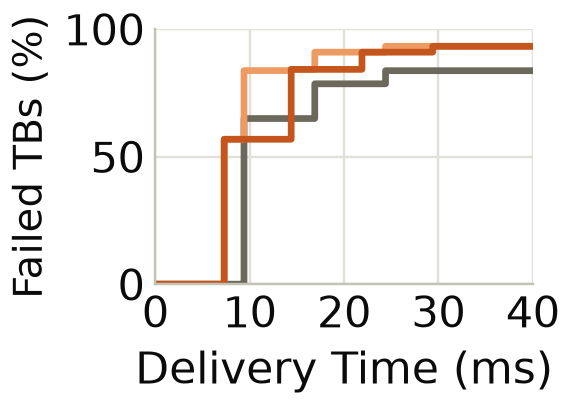
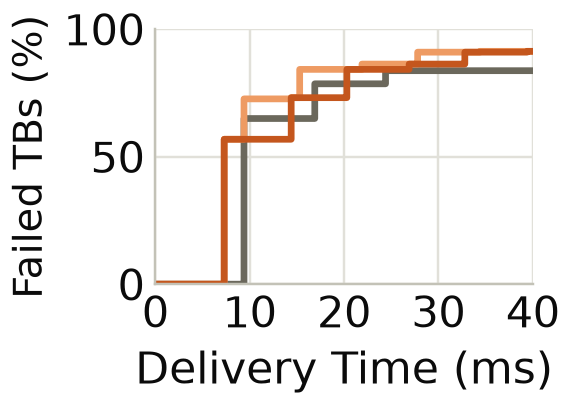
Retransmission rounds in the latency timeline: the NRx result of a retransmission comes one recovery path after the L1 result; Full Wait waits at every transmission, Latency-Neutral selects by failed code blocks at the first transmission and waits at every retransmission; delay as the share of faile

Changed region(s): [[0.4161, 0.0885, 0.951, 0.2654]]

diff --git a/src/analysis/paper_numbers.py b/src/analysis/paper_numbers.py
@@ -9,10 +9,11 @@ scripts/update_numbers.sh; a rerun must reproduce the file byte for byte.
 Macros (value, source):
   \\RetxCutFullWait     retransmissions per 100 TBs, conventional receiver only / Reverb waiting for every recovery,
                        macro cell, the 20,480 TBs of n3_uma_v3_cb + n3_uma_v3_more (results/n3_uma_v3_all.json)
-  \\RetxCutNoDelay      the same with the latency-neutral rule (wait only when at most 5 of 10 code blocks failed),
-                       from the latency simulation (src/sim/harq_latency.py, DDDSU, L1 1.4 ms, recovery path measured,
-                       recovery deadline 11.0 ms, lead 4.0 ms) on the same traces; checked: no added p99 delay for
-                       the TBs recovery does not decode
+  \\RetxCutNoDelay      the same with the latency-neutral rule (at the first transmission wait only when at most 5 of
+                       10 code blocks failed, wait at every retransmission), from the latency simulation
+                       (src/sim/harq_latency.py, DDDSU, L1 1.4 ms, recovery path measured, recovery deadline 11.0 ms,
+                       lead 4.0 ms) on the same traces; checked: within every delay the share of the failed TBs
+                       delivered is at least that of the conventional receiver (a lost TB is never delivered)
   \\LostCutFullWait     TBs never received after four transmissions, conventional / Reverb waiting for every recovery
   \\ThroughputGainLA    goodput under outer-loop link adaptation (target 10%), Reverb / conventional, mean over the
                        SNR points 6-16 dB, macro cell (results/n6_uma_v3_olla.json)
@@ -26,7 +27,13 @@ Setup macros (text, Evaluation Setup): \\SetupLOneMs, \\SetupRecoveryRunMs, \\Se
   \\SetupRecoveryRunMs is the 99th percentile and \\SetupRecoveryPathMs the median of the recovery path measured in the slot
   runtime (src/analysis/recovery_path.py); \\SetupRecoveryBoundMs, \\SetupBoundLowMs and \\SetupBoundHighMs are settings of
   the real-time runs.  NeutralLaterPct / FullWaitLaterPct: failed TBs delivered later than without recovery (Latency-Neutral,
-  Full Wait), NeutralEarlierPct: delivered earlier, WaitAddedDelayMs: the largest added delay (latency simulation)
+  Full Wait), NeutralEarlierPct: delivered earlier, WaitAddedDelayMs: the delay one wait adds to the next retransmission
+  (the same at every transmission, checked), FullWaitMaxAddedMs: the largest added delay of a TB under Full Wait,
+  FullWaitBehindMaxPp / FullWaitAheadFromMs: the largest shortfall of the delivered share of Full Wait against the
+  conventional receiver and the delay from which Full Wait delivers more; MotPNinetyNine*: 99th-percentile delivery
+  time of the failed TBs the first recovery does not decode, among those delivered with and without waiting;
+  MotLaterRec* / MotLaterNext*: after the L1 fails a retransmission, the share of these TBs that the NRx of the combined
+  buffer decodes / that the next retransmission decodes (range over the retransmissions, conventional order of events)
 """
 import glob
 import json
@@ -36,7 +43,7 @@ import sys
 import numpy as np
 
 sys.path.insert(0, "src/sim")
-from harq_latency import simulate  # noqa: E402
+from harq_latency import simulate, uplink_times  # noqa: E402
 
 OUT = os.environ.get("PAPER_NUMBERS_OUT", "results/paper")   # another folder to compare without replacing
 MACRO_SETS = ["n3_uma_v3_cb", "n3_uma_v3_more"]
@@ -130,9 +137,11 @@ def motivation(lat):
     v["MotRecoveryResultMs"] = (Timing.l1 + Timing.run, 1)
     v["MotFirstRetxMs"] = (lat["first_retx_ms"], 1)
     v["MotWaitDelayMs"] = (lat["wait_delay_ms"], 1)
-    v["MotPNinetyNineNoWait"] = (lat["harq_only"]["p99_unrecovered_ms"], 1)
-    v["MotPNinetyNineWait"] = (lat["wait"]["p99_unrecovered_ms"], 1)
+    v["MotPNinetyNineNoWait"] = (lat["wait"]["p99_paired_conventional_ms"], 1)
+    v["MotPNinetyNineWait"] = (lat["wait"]["p99_paired_ms"], 1)
     v["MotRetxWait"] = (lat["wait"]["retx_per_100"], 1)
+    v["MotLaterRecLow"] = (min(lat["later_recovery_pct"]), 0); v["MotLaterRecHigh"] = (max(lat["later_recovery_pct"]), 0)
+    v["MotLaterNextLow"] = (min(lat["later_next_retx_pct"]), 0); v["MotLaterNextHigh"] = (max(lat["later_next_retx_pct"]), 0)
     rows = {}
     for line in open("results/n16_summary.txt"):
         f = line.split()
@@ -172,30 +181,57 @@ def load_traces(sets):
     return conv, rec, steps, conv_steps, (cbfail >= 0) & (cbfail <= 5)
 
 
+def delivered_share(done, fail, at):
+    """Share (%) of the failed TBs delivered within each delay of at; a TB lost after the last transmission is never
+    delivered.  The shares change only at delivery times, so evaluating them there compares two policies exactly."""
+    d = np.sort(done[fail])
+    return 100.0 * np.searchsorted(d, at, side="right") / fail.sum()
+
+
 def latency_policies():
     conv, rec, steps, conv_steps, cand = load_traces(MACRO_SETS)
-    out = {}
-    dones = {}
-    for pol in ("harq_only", "wait", "select_cb5"):
-        done, tx = simulate(conv, rec, conv_steps if pol == "harq_only" else steps, cand, pol, "DDDSU", Timing)
-        unrec = ~conv & ~(rec & (Timing.l1 + Timing.run <= Timing.deadline)) & np.isfinite(done)
-        dones[pol] = (done, unrec)
-        out[pol] = {"retx_per_100": float(100.0 * (tx - 1).sum() / len(tx)),
-                    "p99_unrecovered_ms": float(np.percentile(done[unrec], 99)),
-                    "tbs": int(len(tx))}
-    (d0, u0), (d1, u1) = dones["harq_only"], dones["wait"]
-    d_base = dones["harq_only"][0]
     fail = ~conv
+    first_rec = rec & (Timing.l1 + Timing.run <= Timing.deadline)
+    out, dones = {}, {}
+    for pol in ("harq_only", "wait", "select_cb5"):
+        done, tx = simulate(conv, rec, conv_steps if pol == "harq_only" else steps, cand, pol, "DDDSU", Timing, l1_steps=conv_steps)
+        dones[pol] = done
+        out[pol] = {"retx_per_100": float(100.0 * (tx - 1).sum() / len(tx)),
+                    "lost_pct": float(100.0 * (~np.isfinite(done)).mean()), "tbs": int(len(tx))}
+    d0 = dones["harq_only"]
     for pol in ("select_cb5", "wait"):
-        d = dones[pol][0]
-        base = np.where(np.isfinite(d_base), d_base, np.inf)
-        new = np.where(np.isfinite(d), d, np.inf)
-        later = fail & np.isfinite(base) & (new > base + 1e-9)
+        d = dones[pol]
+        later = fail & np.isfinite(d0) & (d > d0 + 1e-9)
         out[pol]["later_pct_of_failed"] = float(100.0 * later.sum() / fail.sum())
-        out[pol]["earlier_pct_of_failed"] = float(100.0 * (fail & (new < base - 1e-9)).sum() / fail.sum())
-        out[pol]["added_delay_ms_max"] = float((new[later] - base[later]).max()) if later.any() else 0.0
-    out["first_retx_ms"] = float(d0[u0].min())                      # the first retransmission is decoded
-    out["wait_delay_ms"] = float(d1[u1].min() - d0[u0].min())      # waiting moves it by this much
+        out[pol]["earlier_pct_of_failed"] = float(100.0 * (fail & (d < d0 - 1e-9)).sum() / fail.sum())
+        out[pol]["added_delay_ms_max"] = float((d[later] - d0[later]).max()) if later.any() else 0.0
+        at = np.unique(np.concatenate([[0.0], d0[fail & np.isfinite(d0)], d[fail & np.isfinite(d)]]))
+        diff = delivered_share(d, fail, at) - delivered_share(d0, fail, at)
+        out[pol]["share_min_diff_pp"] = float(diff.min())
+        behind = np.flatnonzero(diff < -1e-9)
+        if len(behind):
+            out[pol]["behind_from_ms"] = float(at[behind[0]])
+            out[pol]["ahead_from_ms"] = float(at[behind[-1] + 1])   # from here on the share is at least the conventional one
+            assert (diff[behind[-1] + 1:] >= -1e-9).all()
+        pair = fail & ~first_rec & np.isfinite(d0) & np.isfinite(d)   # the same TBs under both policies
+        out[pol]["p99_paired_ms"] = float(np.percentile(d[pair], 99))
+        out[pol]["p99_paired_conventional_ms"] = float(np.percentile(d0[pair], 99))
+    # after the L1 fails retransmission k (and every transmission before it): the share the NRx of the combined buffer
+    # decodes, and the share the next retransmission decodes with the L1 alone
+    alive, later_rec, later_next = fail.copy(), [], []
+    for k in range(1, len(steps)):
+        alive = alive & ~conv_steps[k]
+        later_rec.append(float(100.0 * (steps[k] & ~conv_steps[k])[alive].mean()))
+        if k + 1 < len(steps):
+            later_next.append(float(100.0 * conv_steps[k + 1][alive].mean()))
+    out["later_recovery_pct"], out["later_next_retx_pct"] = later_rec, later_next
+    out["first_retx_ms"] = float(d0[fail & np.isfinite(d0)].min())   # the first retransmission is decoded
+    # one wait moves the next retransmission by this much, at the first transmission and at every retransmission
+    ul = uplink_times("DDDSU", 300.0)
+    nxt = lambda t: ul[np.searchsorted(ul, t)]
+    shifts = {round(float(nxt(s + r + Timing.run + Timing.lead) - nxt(s + r + Timing.lead)), 9)
+              for s, r in [(0.0, Timing.l1)] + [(u, 0.5 + Timing.l1) for u in ul[1:9]]}
+    out["wait_delay_ms"] = shifts.pop() if len(shifts) == 1 else float("nan")
     return out
 
 
@@ -209,11 +245,12 @@ def main():
     rand = json.load(open(f"results/p2b_uma_u8_random{SUFFIX}.json"))["all"]
 
     conv_retx, ours_retx = allstats["ai_and_ran"]["resends_per_100"], allstats["ours"]["resends_per_100"]
-    added = lat["select_cb5"]["p99_unrecovered_ms"] - lat["harq_only"]["p99_unrecovered_ms"]
     checks = {
         "latency_sim_full_wait_equals_harq_stats": abs(lat["wait"]["retx_per_100"] - ours_retx) < 1e-9,
         "latency_sim_conventional_equals_harq_stats": abs(lat["harq_only"]["retx_per_100"] - conv_retx) < 1e-9,
-        "no_added_delay_latency_neutral": added <= 0.05,
+        "latency_neutral_delivers_at_least_conventional_within_every_delay": lat["select_cb5"]["share_min_diff_pp"] >= 0.0,
+        "every_wait_adds_the_same_delay": bool(np.isfinite(lat["wait_delay_ms"])),
+        "latency_sim_lost_equal_for_both_rules": abs(lat["wait"]["lost_pct"] - lat["select_cb5"]["lost_pct"]) < 1e-9,
     }
     values = {**motivation(lat),
         "RetxCutFullWait": (conv_retx / ours_retx, 1),
@@ -224,7 +261,11 @@ def main():
         "NeutralLaterPct": (lat["select_cb5"]["later_pct_of_failed"], 1),
         "NeutralEarlierPct": (lat["select_cb5"]["earlier_pct_of_failed"], 1),
         "FullWaitLaterPct": (lat["wait"]["later_pct_of_failed"], 1),
-        "WaitAddedDelayMs": (lat["wait"]["added_delay_ms_max"], 1),
+        "WaitAddedDelayMs": (lat["wait_delay_ms"], 1),
+        "FullWaitMaxAddedMs": (lat["wait"]["added_delay_ms_max"], 1),
+        "NeutralMaxAddedMs": (lat["select_cb5"]["added_delay_ms_max"], 1),
+        "FullWaitBehindMaxPp": (-lat["wait"]["share_min_diff_pp"], 1),
+        "FullWaitAheadFromMs": (lat["wait"]["ahead_from_ms"], 1),
     }
     full = json.load(open(f"results/n3_uma_v3_all{SUFFIX}.json"))
     meta = json.loads(str(np.load(sorted(glob.glob(f"results/{MACRO_SETS[0]}{SUFFIX}/c*.npz"))[0])["meta"]))
@@ -247,7 +288,7 @@ def main():
                          "goodput_vs_conventional_by_snr": dict(zip([f"{x:g}" for x in snr], goodput)),
                          "pairing_retx_per_100": {"conventional_best_of_16_sum_rate": pf16["ai_and_ran"]["resends_per_100"],
                                                   "reverb_random_partner": rand["ours"]["resends_per_100"]},
-                         "added_p99_delay_latency_neutral_ms": added,
+
                          "recovery_path": PATH},
               "checks": checks}
     json.dump(report, open(f"{OUT}/numbers.json", "w"), indent=1, sort_keys=True)

diff --git a/src/sim/harq_latency.py b/src/sim/harq_latency.py
@@ -24,6 +24,13 @@ Policies:
   select_cbK    wait only when the conventional receiver failed at most K code blocks of the TB (known when L1
                 finishes; needs cbfail_t0 in the trace, decode_harq.py from 2026-10-15 06:30)
 TDD patterns: DDDSU (one uplink slot every 2.5 ms) and DDDSUUDDDD (two uplink slots every 5 ms), 0.5 ms slots.
+Retransmissions (with l1_steps, 2026-10-30): the L1 result of retransmission k is known L1 after its slot, and the large
+NRx result of the combined buffer one recovery run later.  wait (Full Wait) waits for that result before the next
+grant, as before the first retransmission, so the NRx decode avoids the next retransmission and every round adds at
+most one wait.  select_* (Latency-Neutral) decides with its candidates only at the first transmission and waits at every
+retransmission like wait; parallel sends the next grant at the L1 result, and an NRx decode then delivers the block
+but the next retransmission is already scheduled (wait_later overrides the retransmission rule per block).  Without l1_steps every decode of a retransmission is known at the
+L1 time (the model before 2026-10-30).
 usage: harq_latency.py --inputs C0.npz [...] --output OUT.json [--lead 2.0 --l1 1.4 --run 6.3 --deadline 11.0]
 """
 
@@ -56,7 +63,7 @@ def uplink_times(pattern: str, horizon: float) -> np.ndarray:
         k += 1
 
 
-def simulate(conv_ok, rec_ok, steps_ok, candidate, policy, pattern, a):
+def simulate(conv_ok, rec_ok, steps_ok, candidate, policy, pattern, a, l1_steps=None, wait_later=None):
     """Delivery time (ms after the first samples arrive; inf if never) and transmissions used, per block.
     Recovery is always attempted here (no NeuralRx contention; that is the subject of the Antiphase paper), so its
     outcome is known at L1 + run.  A retransmission in uplink slot s is decoded at s + SLOT + L1."""
@@ -78,16 +85,28 @@ def simulate(conv_ok, rec_ok, steps_ok, candidate, policy, pattern, a):
                 continue
         # time at which the first retransmission grant is decided
         decide = rec_time if waits else a.l1
+        wl = (policy == "wait" or policy.startswith("select")) if wait_later is None else (bool(wait_later[i]) if hasattr(wait_later, "__len__") else bool(wait_later))
         for k in range(1, total):
             if recovered and rec_time <= decide:
                 break                               # parallel: recovery ended the block before this grant
             slot = times[np.searchsorted(times, decide + a.lead)]
             result = slot + SLOT + a.l1
             tx[i] = k + 1
-            if steps_ok[k][i]:
+            if l1_steps is None:
+                if steps_ok[k][i]:
+                    done[i] = min(done[i], result)
+                    break
+                decide = result
+                continue
+            if l1_steps[k][i]:                     # the L1 decodes the combined buffer
                 done[i] = min(done[i], result)
                 break
-            decide = result
+            if steps_ok[k][i]:                     # the large NRx decodes it one recovery run later
+                done[i] = min(done[i], result + a.run)
+                if not wl and k + 1 < total:
+                    tx[i] = k + 2                   # the next grant went out at the L1 result
+                break
+            decide = result + a.run if wl else result
     return done, tx
 
 

diff --git a/results/paper/numbers.tex b/results/paper/numbers.tex
@@ -50,8 +50,12 @@
 \newcommand{\MotFirstRetxMs}{9.4}
 \newcommand{\MotWaitDelayMs}{5.0}
 \newcommand{\MotPNinetyNineNoWait}{24.4}
-\newcommand{\MotPNinetyNineWait}{29.4}
+\newcommand{\MotPNinetyNineWait}{32.8}
 \newcommand{\MotRetxWait}{9.0}
+\newcommand{\MotLaterRecLow}{57}
+\newcommand{\MotLaterRecHigh}{58}
+\newcommand{\MotLaterNextLow}{24}
+\newcommand{\MotLaterNextHigh}{39}
 \newcommand{\MotGpuOneCell}{42}
 \newcommand{\MotGpuOneEight}{9}
 \newcommand{\MotGpuFourEight}{42}
@@ -71,10 +75,14 @@
 \newcommand{\LostCutFullWait}{2.4}
 \newcommand{\ThroughputGainLA}{1.31}
 \newcommand{\PairingCutBestSixteen}{1.6}
-\newcommand{\NeutralLaterPct}{0.4}
-\newcommand{\NeutralEarlierPct}{75.2}
-\newcommand{\FullWaitLaterPct}{17.9}
+\newcommand{\NeutralLaterPct}{4.6}
+\newcommand{\NeutralEarlierPct}{73.3}
+\newcommand{\FullWaitLaterPct}{26.7}
 \newcommand{\WaitAddedDelayMs}{5.0}
+\newcommand{\FullWaitMaxAddedMs}{15.0}
+\newcommand{\NeutralMaxAddedMs}{10.0}
+\newcommand{\FullWaitBehindMaxPp}{7.3}
+\newcommand{\FullWaitAheadFromMs}{20.3}
 \newcommand{\SetupLOneMs}{1.4}
 \newcommand{\SetupRecoveryRunMs}{5.9}
 \newcommand{\SetupRecoveryPathMs}{5.7}

diff --git a/src/analysis/server_effect.py b/src/analysis/server_effect.py
@@ -80,7 +80,7 @@ def effect(avail):
     rng = np.random.default_rng(7)
     draw = rng.random(len(conv))
     T = pn.Timing
-    d0, tx0 = simulate(conv, rec, conv_steps, cand, "harq_only", "DDDSU", T)
+    d0, tx0 = simulate(conv, rec, conv_steps, cand, "harq_only", "DDDSU", T, l1_steps=conv_steps)
     root = Path(f"results/n6_uma_v3{SUFFIX}")
     tab = olla.per_mcs(root)
     ladder = sorted(tab)
@@ -102,7 +102,7 @@ def effect(avail):
         keep = draw < a
         r = rec & keep
         st = [None] + [conv_steps[t] | (steps[t] & ~conv_steps[t] & (draws[t] < a)) for t in range(1, n_steps)]
-        d, tx = simulate(conv, r, st, cand, "wait", "DDDSU", T)
+        d, tx = simulate(conv, r, st, cand, "wait", "DDDSU", T, l1_steps=conv_steps)
         unrec = ~conv & ~(r & (T.l1 + T.run <= T.deadline)) & np.isfinite(d)
         lost = 100.0 * (~np.isfinite(d)).mean()
         for mcs in ladder:

diff --git a/figures/paper/make_paper_figures.py b/figures/paper/make_paper_figures.py
@@ -345,7 +345,7 @@ def motivation_delay():
     both = [None] + [g[f"sep_c{t}"] | g[f"nrx_c{t}"] for t in range(1, total)]
     fig, ax = plt.subplots(figsize=PANEL)
     for label, pol, steps in (("Retransmission Only", "harq_only", sep), ("Wait for Recovery", "wait", both)):
-        done, _ = simulate(conv, rec, steps, None, pol, "DDDSU", Timing)
+        done, _ = simulate(conv, rec, steps, None, pol, "DDDSU", Timing, l1_steps=sep)
         d = np.sort(done[~conv])
         x = np.concatenate([[0], np.repeat(d[np.isfinite(d)], 2), [45]])
         y = np.concatenate([[0, 0], np.repeat(np.arange(1, np.isfinite(d).sum() + 1) / d.size * 100, 2)])[:x.size]

diff --git a/figures/paper/make_eval_figures.py b/figures/paper/make_eval_figures.py
@@ -139,7 +139,7 @@ def delay():
     res = {}
     for label, pol in (("Conventional", "harq_only"), ("Reverb, Latency-Neutral", "select_cb5"),
                        ("Reverb, Full Wait", "wait")):
-        done, tx = simulate(conv, rec, conv_steps if pol == "harq_only" else steps, cand, pol, "DDDSU", pn.Timing)
+        done, tx = simulate(conv, rec, conv_steps if pol == "harq_only" else steps, cand, pol, "DDDSU", pn.Timing, l1_steps=conv_steps)
         res[label] = (done[~conv], 100.0 * (tx - 1).sum() / len(tx))
     fig, ax = plt.subplots(figsize=PANEL4)
     for label in ("Conventional", "Reverb, Latency-Neutral", "Reverb, Full Wait"):

diff --git a/docs/PLAN.md b/docs/PLAN.md
@@ -78,3 +78,5 @@
 18. (큐에 있음) n13_lanes_ici: 간섭 학습 NRx 실행 시간 = 공개 NRx와 같은지.
 
 **2026-10-30 01:00 둘째 리뷰 반영:** 17번(공유 GPU 효과 연결)을 src/analysis/server_effect.py로 함: 실행 기록에서 L1 결과(conv)와 복구 결과(lane)를 슬롯별로 맞춰 "복구 가능 TB 중 마감 안 복구 비율"(가용도)을 구하고, 트레이스의 첫 복구와 재전송 NRx 복호를 그 확률로 남겨 타임라인·링크 적응을 다시 계산(results/server_effect_f35.json, 그림 14(e)(f)). GPU 4장 4/8/16/24셀 재전송 2.21/1.89/1.40/1.21배·goodput 1.30/1.25/1.14/1.07배, GPU 1장 1/4/8셀 2.04/1.33/1.13배. 남은 것: 16번(재전송 시점 채널 — 원고에서 '독립' 주장은 뺐고 가정으로만 씀), 14·15번.
+
+**2026-10-30 셋째 리뷰 반영 — 재전송 회차의 시간 모델과 지연 지표:** 이전 타임라인은 재전송 회차의 NRx 복호를 L1 시각에 알 수 있다고 둠(복구 경로 5.9 ms 무시). src/sim/harq_latency.py에 l1_steps를 넣어 회차마다 L1 결과 → NRx 결과(+ 복구 경로)로 둠. 규칙: Full Wait는 모든 전송에서 기다림(지연 상한 U_r − U_s가 전송마다, 실패한 대기마다 5.0 ms); Latency-Neutral은 첫 전송에서만 code block 기준(≤ 5/10)으로 고르고 재전송마다 기다림. 근거: 재전송 뒤에는 결합 샘플의 복구가 L1 실패 TB의 57–58%를 풀고 다음 재전송은 24–39%만 풂(첫 전송에서는 첫 재전송이 64%로 복구 57%보다 많음 → 첫 전송만 고름). 지연 지표는 "각 시간 안에 전달된 실패 TB 비율"(잃은 TB는 전달 안 됨, 그림 13(a)). 결과(2.14 GHz 트레이스): Latency-Neutral 1.4배는 그대로이고 모든 시간에서 conventional 이상(정확히 비교한 지점 전부, 검사 latency_neutral_delivers_at_least_conventional_within_every_delay), K 0–9 모두 이 성질 유지(1.25–1.45배, 3.5 GHz); Full Wait 2.3배·잃는 TB 2.4배, 9.4–20.3 ms에서 최대 7.3%p 뒤지고 20.3 ms부터 앞섬. 동기 절 p99는 두 경우 모두 전달된 같은 TB로(24.4 → 32.8 ms). 이전 p99 지표(전달된 TB만)는 conventional이 잃는 어려운 TB를 Reverb가 늦게라도 전달하면 Reverb에 불리하게 잡히는 표본 편향이 있었음.
